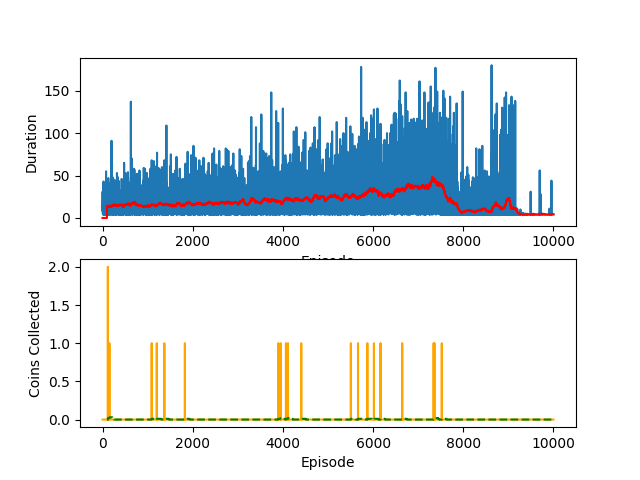
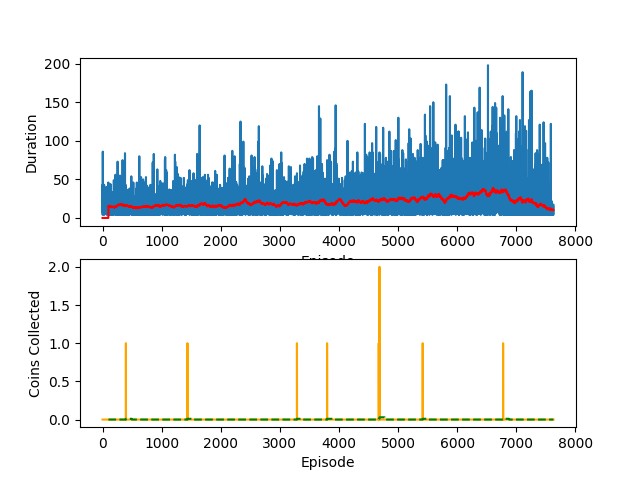
try l2 regularisation and other tweaks like change of target net update

diff --git a/agent_code/ql_agent_fet/train.py b/agent_code/ql_agent_fet/train.py
@@ -34,7 +34,7 @@ Transition = namedtuple('Transition',
                         ('state', 'action', 'next_state', 'reward'))
 
 # Hyper parameters -- TODO modify/optimize
-TRANSITION_HISTORY_SIZE = 2000  # keep only ... last transitions
+TRANSITION_HISTORY_SIZE = 1000  # keep only ... last transitions
 RECORD_ENEMY_TRANSITIONS = 1.0  # record enemy transitions with probability ...
 
 # BATCH_SIZE is the number of transitions sampled from the replay buffer
@@ -48,12 +48,15 @@ BATCH_SIZE = 120
 # Discound factor or gamma
 DISCOUNT_FACTOR = 0.99
 EPS_START = 0.99
-EPS_END = 0.1
+EPS_END = 0.3
 STATIC_EPS = 0.1
 EPS_DECAY_FACTOR = 1000000
 TAU = 0.001
 LEARNING_RATE = 0.0001
 NUM_EPISODES = 10000
+TARGET_UPDATE_STEPS = 100
+
+REGULARISATION = 0.0001
 
 ACTIONS = ['UP', 'RIGHT', 'DOWN', 'LEFT', 'WAIT', 'BOMB']
 
@@ -111,7 +114,7 @@ def setup_training(self):
     self.memory = ReplayMemory(TRANSITION_HISTORY_SIZE)
     self.t = 0
 
-    self.bomb_buffer = 0
+    self.target_update_counter = 0
 
 def game_events_occurred(self, old_game_state: dict, self_action: str, new_game_state: dict, events: List[str]):
     """
@@ -225,8 +228,8 @@ def reward_from_events(self, events: List[str], new_game_state: dict) -> int:
     #       Die -300
     game_rewards = {
         e.COIN_COLLECTED: 500,
-        e.CRATE_DESTROYED: 100,
-        e.INVALID_ACTION: -2,
+        e.CRATE_DESTROYED: 300,
+        e.INVALID_ACTION: -50,
         e.KILLED_OPPONENT: 100,
         e.GOT_KILLED: -300,
         e.KILLED_SELF: -300,
@@ -234,10 +237,10 @@ def reward_from_events(self, events: List[str], new_game_state: dict) -> int:
     }
 
     made_action = {
-        e.MOVED_LEFT: -1,
-        e.MOVED_RIGHT: -1,
-        e.MOVED_UP: -1,
-        e.MOVED_DOWN: -1,
+        e.MOVED_LEFT: 1,
+        e.MOVED_RIGHT: 1,
+        e.MOVED_UP: 1,
+        e.MOVED_DOWN: 1,
         e.WAITED: -1,
     }
 
@@ -261,14 +264,14 @@ def reward_from_events(self, events: List[str], new_game_state: dict) -> int:
     return reward_sum
 
 def update_model(self):
-    target_net_state_dict = self.target_net.state_dict()
-    policy_net_state_dict = self.policy_net.state_dict()
-    for key in policy_net_state_dict:
-        target_net_state_dict[key] = policy_net_state_dict[key]*TAU + target_net_state_dict[key]*(1-TAU)
-    self.target_net.load_state_dict(target_net_state_dict)
+    # target_net_state_dict = self.target_net.state_dict()
+    # policy_net_state_dict = self.policy_net.state_dict()
+    # for key in policy_net_state_dict:
+    #     target_net_state_dict[key] = policy_net_state_dict[key]*TAU + target_net_state_dict[key]*(1-TAU)
+    # self.target_net.load_state_dict(target_net_state_dict)
 
     # Based on https://pytorch.org/tutorials/intermediate/reinforcement_q_learning.html
-    self.optimizer = AdamW(self.policy_net.parameters(), lr=LEARNING_RATE, amsgrad=True)
+    self.optimizer = AdamW(self.policy_net.parameters(), lr=LEARNING_RATE, amsgrad=True, weight_decay=REGULARISATION)
     if len(self.memory) < BATCH_SIZE:
         return
     transitions =self.memory.sample(BATCH_SIZE)
@@ -315,6 +318,14 @@ def update_model(self):
     # In-place gradient clipping
     torch.nn.utils.clip_grad_value_(self.policy_net.parameters(), 100)
     self.optimizer.step()
+
+    self.target_update_counter += 1
+    if self.target_update_counter % TARGET_UPDATE_STEPS == 0:
+        # Update the target model every n_target_update_steps steps
+        target_net_state_dict = self.policy_net.state_dict()
+        self.target_net.load_state_dict(target_net_state_dict)
+        self.target_net.eval()
+        self.target_update_counter = 0
 
 def plot_durations(self, gamestate, show_result=False):
     fig = plt.figure(1)

diff --git a/agent_code/ql_agent_fet/callbacks.py b/agent_code/ql_agent_fet/callbacks.py
@@ -39,6 +39,7 @@ def setup(self):
     input_size = 23
     hidden_size = 128
     output_size = len(ACTIONS)
+    self.bomb_buffer = 0
 
     if not os.path.isfile("custom_mlp_policy_model.pth") and not self.train:
         # Size of feature representation below
